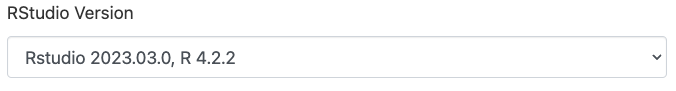
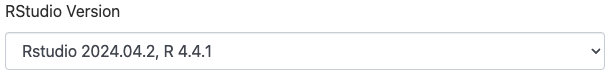
add important admonition to JupyterLab install for OOD for specific version, replace older RStudio selection with current default (#453)

diff --git a/docs/open_ondemand/jupyter_session.md b/docs/open_ondemand/jupyter_session.md
@@ -72,6 +72,12 @@ In Jupyter Session applications you have the option to launch a Jupyter session 
        ```
        (my-conda-env) [user@c3cpu-a2-u3-4 ~]$ conda install -c conda-forge jupyterlab
        ```
+       ````{important}
+       If you are experiencing issues with JupyterLab functionality e.g. trouble deleting notebooks from within the GUI, inconsistent behavior in the terminal within the GUI, etc., we have traced these issues down to incompatibilities with JupyterLab versions. In this scenario, we recommend rebuilding the environment and installing version 3.4.0 of JupyterLab:
+       ```
+       conda install -c conda-forge jupyterlab=3.4.0
+       ```
+       ````
    - If you would like to install **Jupyter Notebook** (the classic version of Jupyter)
       ```
       (my-conda-env) [user@c3cpu-a2-u3-4 ~]$ conda install -c conda-forge notebook
